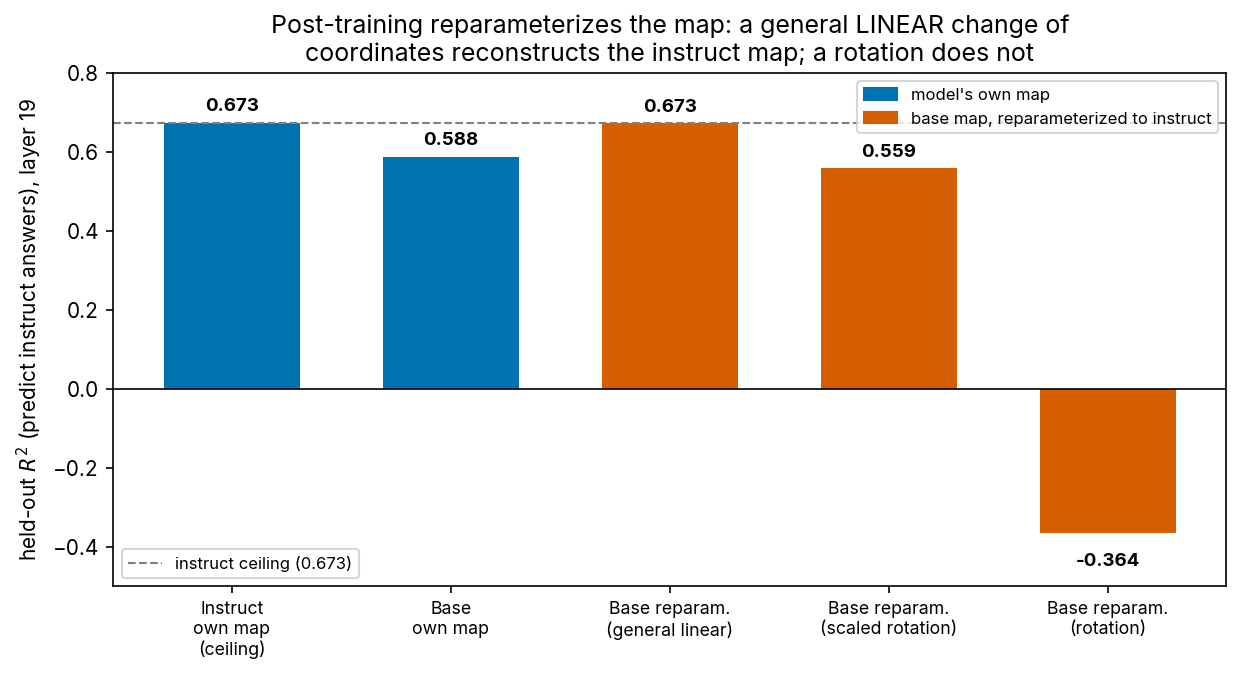
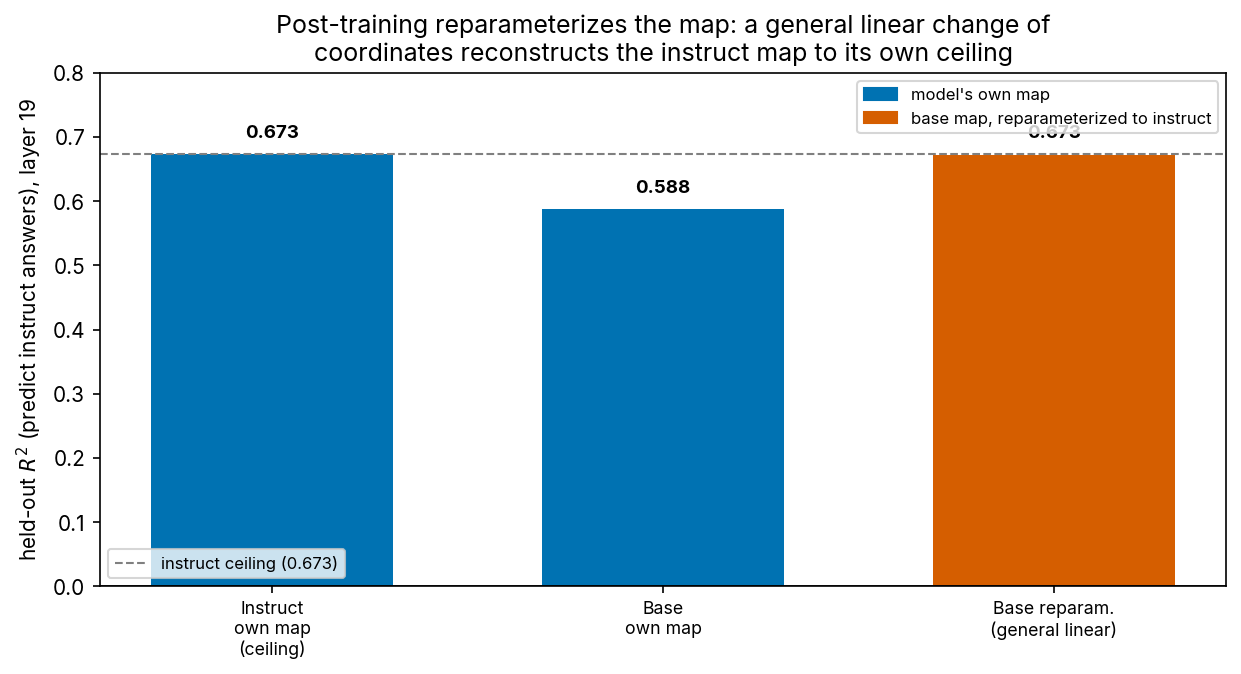
#825 Result-2 figure: drop rotation bars, keep instruct vs general-linear-reparam
Generated with [Claude Code](https://claude.ai/code)
via [Happy](https://happy.engineering)

diff --git a/scripts/issue825_reparam_vs_instruct_fig.py b/scripts/issue825_reparam_vs_instruct_fig.py
@@ -46,8 +46,6 @@ def main() -> None:
         ("Instruct\nown map\n(ceiling)", ceil_i, "own"),
         ("Base\nown map", ceil_b, "own"),
         ("Base reparam.\n(general linear)", lin, "reparam"),
-        ("Base reparam.\n(scaled rotation)", scaled, "reparam"),
-        ("Base reparam.\n(rotation)", orth, "reparam"),
     ]
 
     import matplotlib
@@ -85,11 +83,11 @@ def main() -> None:
     ax.set_xticklabels([b[0] for b in bars], fontsize=8.5)
     ax.set_ylabel("held-out $R^2$ (predict instruct answers), layer 19")
     ax.set_title(
-        "Post-training reparameterizes the map: a general LINEAR change of\n"
-        "coordinates reconstructs the instruct map; a rotation does not"
+        "Post-training reparameterizes the map: a general linear change of\n"
+        "coordinates reconstructs the instruct map to its own ceiling"
     )
     ax.legend(fontsize=8, loc="lower left")
-    ax.set_ylim(min(-0.5, min(vals) - 0.1), 0.8)
+    ax.set_ylim(0.0, 0.8)
     # blue = model's own map; orange = base map wrapped in a base->instruct
     # change-of-coordinates, scored on predicting INSTRUCT answers.
     from matplotlib.patches import Patch
@@ -122,11 +120,11 @@ def main() -> None:
         "caption": (
             "Held-out R² at layer 19 for predicting instruct answers. Blue: each model's "
             "own context->answer map (instruct ceiling 0.673, base 0.588). Orange: the base "
-            "map run through a fitted base->instruct change-of-coordinates "
-            "(A_ans o M_base o A_ctx^-1), under three classes. A general LINEAR "
-            "reparameterization reaches the instruct ceiling (0.673); a scaled rotation "
-            "reaches 0.559; a pure rotation (orthogonal) fails (-0.364). So post-training "
-            "re-expresses the same map in stretched/sheared coordinates, not a rigid rotation."
+            "map run through a fitted general-linear base->instruct change-of-coordinates "
+            "(A_ans o M_base o A_ctx^-1), scored on instruct answers — it reaches the "
+            "instruct ceiling (0.673), i.e. post-training re-expresses the same map in "
+            "different coordinates. (Rotation-restricted variants recorded in `values` but "
+            "not plotted: scaled rotation 0.559, pure rotation -0.364.)"
         ),
     }
     (FIG_DIR / "reparam_vs_instruct.meta.json").write_text(json.dumps(meta, indent=2))
